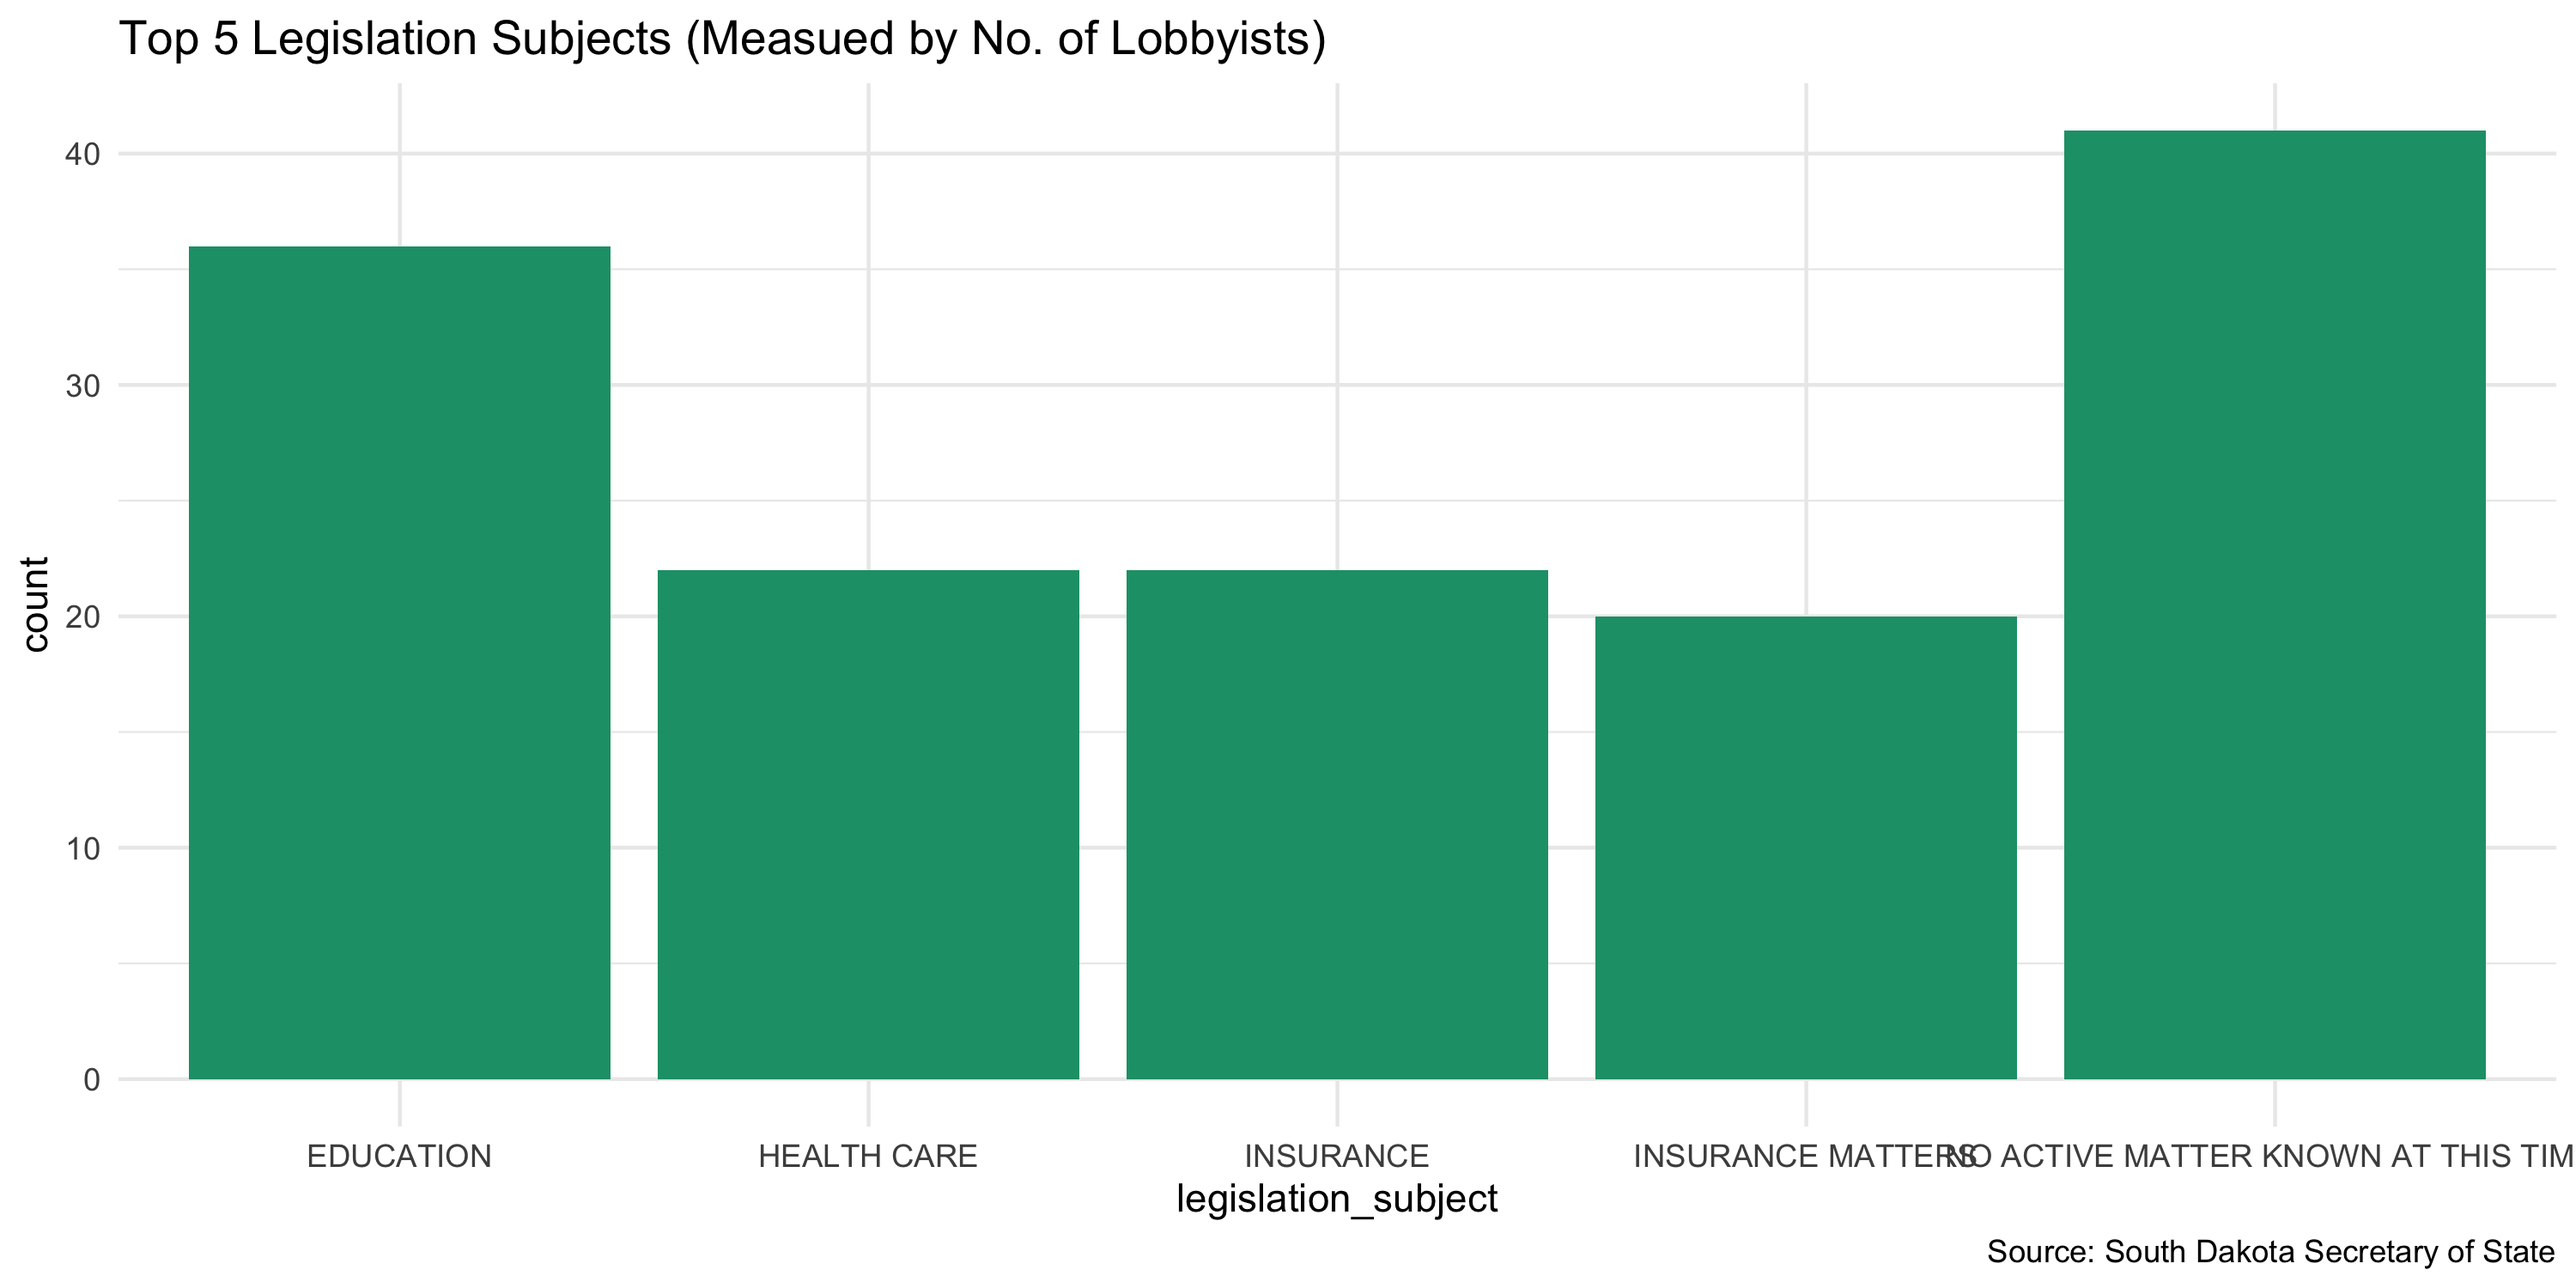
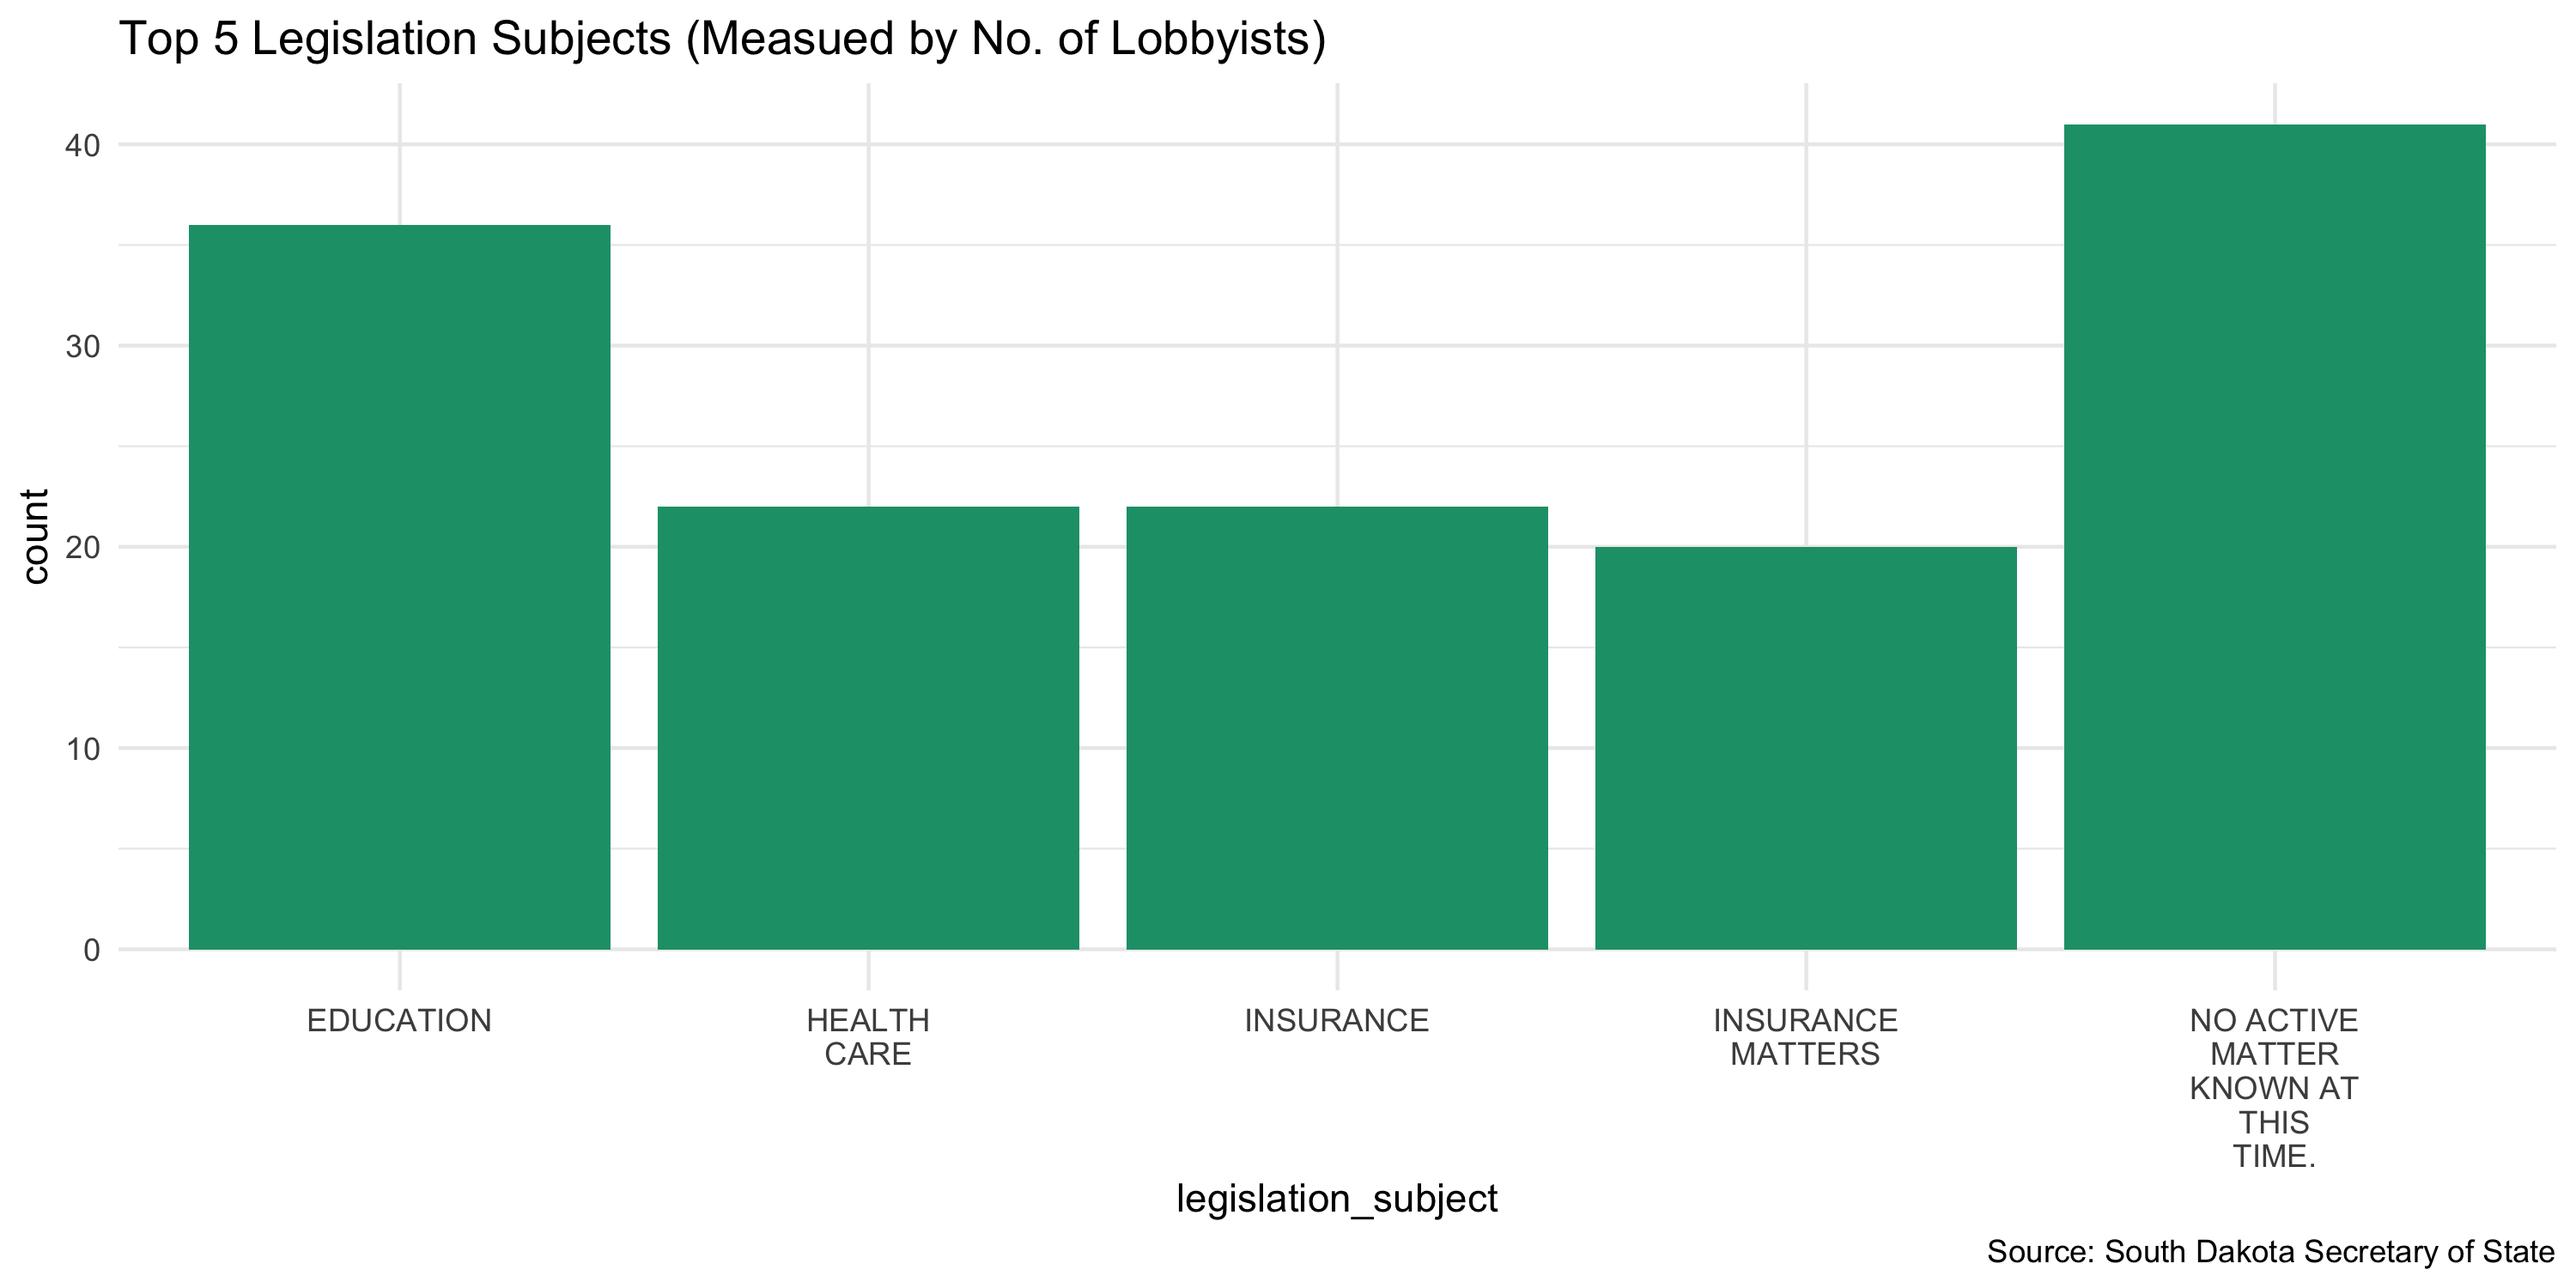
SD reg from IRW desktop

diff --git a/R_campfin/sd/lobby/docs/sd_lobby_reg_diary.md b/R_campfin/sd/lobby/docs/sd_lobby_reg_diary.md
@@ -1,7 +1,7 @@
 Nevada Lobbying Registration Data Diary
 ================
 Yanqi Xu
-2020-01-16 17:09:48
+2020-01-17 09:47:41
 
 -   [Project](#project)
 -   [Objectives](#objectives)
@@ -10,7 +10,13 @@ Yanqi Xu
 -   [Data](#data)
 -   [Scrape](#scrape)
 -   [Explore](#explore)
+    -   [Duplicates](#duplicates)
+    -   [Missing](#missing)
 -   [Wrangle](#wrangle)
+    -   [Separate](#separate)
+    -   [ZIP](#zip)
+    -   [State](#state)
+    -   [City](#city)
 -   [Export](#export)
 
 Project
@@ -88,7 +94,9 @@ dir_create(c(raw_dir, doc_dir))
 Data
 ----
 
-[South Dakota Statutes](http://sdlegislature.gov/statutes/Codified_laws/DisplayStatute.aspx?Statute=2-12&Type=StatuteChapter) regulate lobbyists, employer and lobbying activities as such. &gt; 2-12-1. Names of lobbyists to be registered with secretary of state--Termination of employment. Any person who employs any other person to act as a lobbyist to seek the introduction of legislation or to promote, oppose, or influence in any manner the passage by the Legislature of any legislation affecting the special interests of any agency, individual, association, or business, as distinct from those of the whole people of the state, or to act in any manner as a lobbyist in connection with any such legislation, shall register the name of the person so employed or agreed to be employed, with the secretary of state, to be included in a directory of registered lobbyists as hereinafter provided. The lobbyist shall also register with the secretary of state. Upon the termination of such employment prior to the adjournment sine die of a legislative session, such fact shall be entered opposite the name of any person so employed, either by the employer or employee. Source: SDC 1939, § 55.0701; SL 1977, ch 23, § 1; SL 1991, ch 23, § 1; SL 2017, ch 222 (Initiated Measure 22), § 64; SL 2017, ch 72, § 31, eff. Feb. 2, 2017.
+[South Dakota Statutes](http://sdlegislature.gov/statutes/Codified_laws/DisplayStatute.aspx?Statute=2-12&Type=StatuteChapter) regulate lobbyists, employer and lobbying activities as such.
+
+> 2-12-1. Names of lobbyists to be registered with secretary of state--Termination of employment. Any person who employs any other person to act as a lobbyist to seek the introduction of legislation or to promote, oppose, or influence in any manner the passage by the Legislature of any legislation affecting the special interests of any agency, individual, association, or business, as distinct from those of the whole people of the state, or to act in any manner as a lobbyist in connection with any such legislation, shall register the name of the person so employed or agreed to be employed, with the secretary of state, to be included in a directory of registered lobbyists as hereinafter provided. The lobbyist shall also register with the secretary of state. Upon the termination of such employment prior to the adjournment sine die of a legislative session, such fact shall be entered opposite the name of any person so employed, either by the employer or employee. Source: SDC 1939, § 55.0701; SL 1977, ch 23, § 1; SL 1991, ch 23, § 1; SL 2017, ch 222 (Initiated Measure 22), § 64; SL 2017, ch 72, § 31, eff. Feb. 2, 2017.
 
 > 2-12-4. Authorization to act as lobbyist for employer. Each lobbyist or employer shall file with the secretary of state, within ten days after the date of registration, a written or electronic authorization for a person to act as a lobbyist for an employer. The format for the authorization shall be prescribed by the secretary of state. Source: SDC 1939, § 55.0704; SL 1977, ch 23, § 4; SL 1991, ch 23, § 5; SL 2012, ch 21, § 1.
 
@@ -100,6 +108,8 @@ Scrape
 ------
 
 The [South Dakota SOS site](https://sosenterprise.sd.gov/BusinessServices/Lobbyist/LobbyistSearch.aspx) makes available all lobbyist and employer registrants from year 2016 to 2019. Since there's no way for us to export the data in a spreadsheet We will use `rvest` to scrape the website.
+
+The registration data was scraped on Jan. 17, 2020.
 
 The underlying URLs for each year is generated by inspecting the network traffic tool.
 
@@ -322,6 +332,7 @@ sd_reg %>%
   head(5) %>%
   ggplot(aes(x= legislation_subject, y = n,)) +
   geom_col(fill = RColorBrewer::brewer.pal(3, "Dark2")[1]) +
+  scale_x_discrete(labels = wrap_format(10)) +
   labs(
     title = "Top 5 Legislation Subjects (Measued by No. of Lobbyists)",
     caption = "Source: South Dakota Secretary of State",
@@ -535,7 +546,7 @@ sd_reg %>%
   rename(lobbyist_city_clean = lobbyist_city_swap,
          employer_city_clean = employer_city_swap) %>% 
   write_csv(
-    path = glue("{clean_dir}/ut_lobby_reg.csv"),
+    path = glue("{clean_dir}/sd_lob_reg_clean.csv"),
     na = ""
   )
 ```
